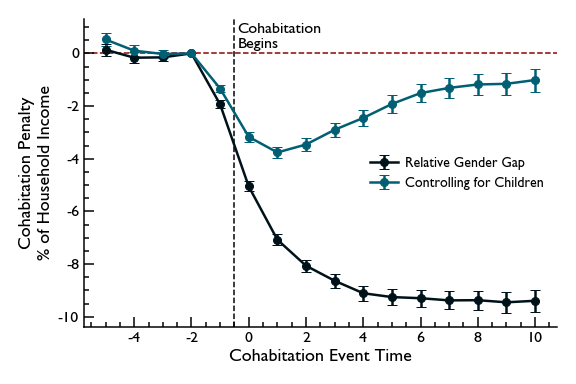
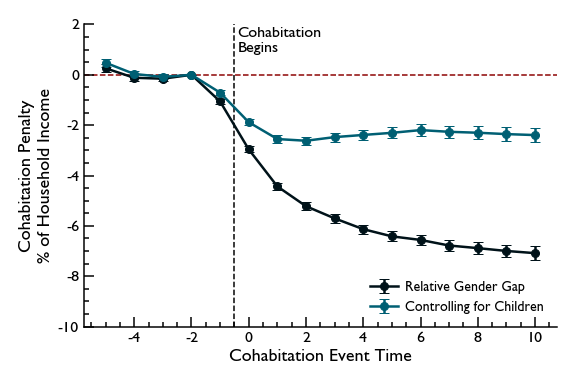
figure update

diff --git a/cohab_penalty_blog.html b/cohab_penalty_blog.html
@@ -41,7 +41,7 @@
       <h1>Figure 1</h1><h3>The Cohabitation Penalty</h3>   
       <img  alt="The Cohabitation Penalty" src="files/li_cond_kids.png" />      
       <p>Figure 1 plots the evolution of earnings from five years before the beginning of individuals first partnership until ten years after (the econometric details are in the paper). These estimates are calculated separately for men and women, and are shown in two versions. The fully drawn lines show how earnings evolve. Before moving in together men and women are on shared paths, increasing their earnings every year. However when they move in together, womens earnings stagnate and fall behind that of mens. Of course, knowing that children cause large drops in womens earnings, one might suspect that what is really happening here, is that fertility is higher after the men and women have moved in together. To account for this, the dashed lines control for children, and the pattern is still the same. This is the cohabitation penalty - the direct cost of cohabitation unrelated to children.
-      <br>The y-axis in figure 1 shows the effect size in Danish Kroner, which is simple, but might make it difficult to get a sense of the magnitude of the cohabitation penalty for non-danes. To help with this, figure 2 plots the evolution of the cohabitation penalty in percent of households total income. Specifically it plots the evolution of the fraction $(y^f - y^m)/(y^f + y^m)$, after accounting for fixed effects and breakups. It shows that after accounting for children, the cohabitation penalty lands at around four percent of the households total income, and then declines in relative terms as the households income grows. 
+      <br>The y-axis in figure 1 shows the effect size in Danish Kroner, which is simple, but might make it difficult to get a sense of the magnitude of the cohabitation penalty for non-danes. To help with this, figure 2 plots the evolution of the cohabitation penalty in percent of households total income. Specifically it plots the evolution of the fraction $(y^f - y^m)/(y^f + y^m)$, after accounting for fixed effects and breakups. It shows that after accounting for children, the cohabitation penalty lands at around three percent of the households total income, where it sits steadily for at least 10 years. 
       <h1>Figure 2</h1><h3>The Cohabitation Penalty in Percent of Household Income</h3>            
       <img alt="The Cohabitation Penalty in Percent of Household Income" src="files/cohab_penalty_pct_hh_income.png" />            
       <p>The paper delves into exploring why the cohabitation penalty exists. Broadly speaking there might be two reasons. First, it is possible that once people move in together, they want to divide the tasks between them because that is the efficient thing to do. If, in addition to this simple economic incentive, women are better at household work than men (perhaps because of their upbringing), it might make sense for couples - in a purely economic sense - to divide work unequally. The second reason is less firmly based in economics. It might simply be the case that gender norms dictate some amount of inequality in couples. 
